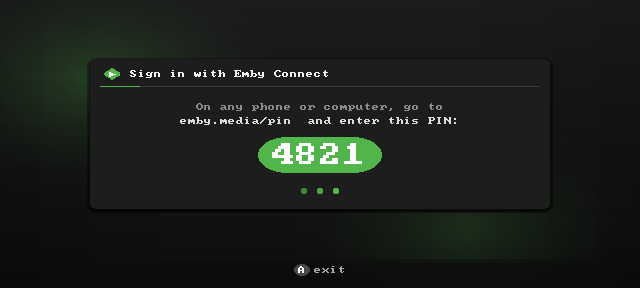
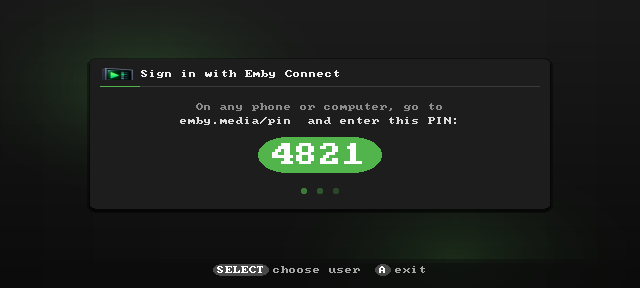
README for v1.1.0: features, controls, screenshots
The next-release section folds into the feature list, the home controls
describe the rows, the hardware-tested list covers what was confirmed on
the MiSTer today (and what wasn't), and the screenshots are retaken: home
rows, poster view, episode stills, the Live TV menu, channels with logos,
the info screen, PIN sign-in, the exit dialog and setup help.

Changed region(s): [[0.3125, 0.9062, 0.6562, 0.9688], [0.1562, 0.2188, 0.5312, 0.2812], [0.5, 0.6562, 0.5312, 0.6875]]

diff --git a/README.md b/README.md
@@ -32,36 +32,28 @@ Rendered with `tools/run-local.sh` against the bundled mock server (`tools/mock-
 
 | | | |
 |:---:|:---:|:---:|
-| <img src="docs/images/screenshots/home.png" width="260"><br>Home: library tiles | <img src="docs/images/screenshots/movies.png" width="260"><br>Library list, played badge | <img src="docs/images/screenshots/episodes.png" width="260"><br>Episodes |
-| <img src="docs/images/screenshots/movie-info.png" width="260"><br>Info, resume progress | <img src="docs/images/screenshots/connect-pin.png" width="260"><br>Emby Connect PIN sign-in | <img src="docs/images/screenshots/posters.png" width="260"><br>Poster view (next release) |
-| <img src="docs/images/screenshots/exit.png" width="260"><br>Exit dialog | <img src="docs/images/screenshots/sign-in-error.png" width="260"><br>Sign-in error | <img src="docs/images/screenshots/config-missing.png" width="260"><br>Setup help |
+| <img src="docs/images/screenshots/home.png" width="260"><br>Home: rows of artwork | <img src="docs/images/screenshots/posters.png" width="260"><br>Poster view | <img src="docs/images/screenshots/episodes.png" width="260"><br>Episodes as stills |
+| <img src="docs/images/screenshots/livetv.png" width="260"><br>Live TV: sources and categories | <img src="docs/images/screenshots/channels.png" width="260"><br>Channels with logos | <img src="docs/images/screenshots/movie-info.png" width="260"><br>Info screen |
+| <img src="docs/images/screenshots/connect-pin.png" width="260"><br>Emby Connect PIN sign-in | <img src="docs/images/screenshots/exit.png" width="260"><br>Exit dialog | <img src="docs/images/screenshots/config-missing.png" width="260"><br>Setup help |
 
 ## <a id="features"></a>Features
 
 - **Emby-style interface**: dark charcoal surfaces, Emby green for focus, progress and played state, rounded tiles and dialogs, button-chip hints along the bottom
 - **Sign in without typing on a gamepad**: an **Emby Connect PIN** (enter it at emby.media/pin from any phone or computer). A local username/password, an Emby Connect account or an API key in `emby.conf` also work. The sign-in is saved, and a revoked one is detected and requested again
-- **Continue Watching and Next Up** appear as the first home tiles when they have something in them
-- **Home screen**: a row of library tiles (name and item count) over a dimmed mosaic of that library's covers. LEFT/RIGHT slides between them; SELECT swaps to a plain list
-- **Browsing**: lists with cover art, played badges, resume progress bars, backdrop art behind the list, a live clock, and scrolling for long titles. Large libraries page in as you scroll
+- **Home screen like Emby's TV apps**: rows of artwork — My Media (your libraries, Live TV, Recordings, Collections), Continue Watching (with progress bars, and the channels you watched last) and Next Up — centred on screen, with the focused title's backdrop behind it. UP/DOWN moves between rows, LEFT/RIGHT along one; SELECT swaps to a plain list
+- **Poster view**: Movies, TV and Collections show as a wall of posters, and a season's episodes as a row of stills with the focused episode's synopsis, the way Emby's TV apps lay them out. SELECT swaps to the text list and back
+- **Live TV and Recordings**: with Live TV set up on the Emby server (an M3U playlist works), Live TV opens a menu of its TV sources and channel categories, each listing its channels with their logos; selecting one tunes straight in, and A cancels while it tunes. A channel whose own stream comes in a size the MiSTer can decode (up to 640x360) plays directly, with no work for the server; others are converted by Emby, at a lighter profile so a NAS keeps up (`LIVE_TRANSCODE` in `emby.conf` always converts). Recordings play like any other title. Live channels can be paused but not seeked
+- **Browsing**: lists with cover art, played badges, resume progress bars, backdrop art behind the list, a live clock, and scrolling for long titles. Large libraries page in as you scroll. Collections lists your Emby box sets even if the server shows no Collections library
 - **Info screen**: backdrop, logo, year, rating, overview, and Play/Resume buttons
-- **Video playback**: server-side transcode to a light MPEG-4 stream the MiSTer can decode in real time, letterboxed or pillarboxed for any source aspect. True interlaced 480i/576i output is supported through the standalone interlaced core (see the [display guide](docs/DISPLAY_COMPATIBILITY.md#interlaced-output))
+- **Video playback**: server-side transcode to a light MPEG-4 stream the MiSTer can decode in real time, letterboxed or pillarboxed for any source aspect. SD DivX/Xvid, MPEG-1 and progressive MPEG-2 files stream with their video untouched, so the server only repackages them (`TRANSCODE_ALWAYS` turns this off). True interlaced 480i/576i output is supported through the standalone interlaced core (see the [display guide](docs/DISPLAY_COMPATIBILITY.md#interlaced-output))
+- **Skip intro and credits**: when Emby has detected a title's intro or credits (Emby's intro detection), a "UP: Skip intro" / "UP: Skip credits" prompt appears at the right moment. Skipping the credits finishes the title and marks it played
+- **Cinema Mode** (opt-in, `CINEMA_MODE` in `emby.conf`): trailers chosen by your Emby server's Cinema Mode settings play before a film started from the beginning; UP skips one
 - **Track picker** (SELECT during playback): audio tracks, subtitles (text subtitles rendered client-side with live sync adjustment; image subtitles burned in by the server), and picture modes for wide titles (Original / Zoom 4:3 / Stretch)
 - **Music**: Artists → Albums → Tracks, direct-play audio, a now-playing screen with real VU meters and selectable backgrounds (starfield, rain, Nebula, Now Spinning, Tunnel), seek, previous/next, auto-advance, and library shuffle
 - **Sync with Emby**: resume positions and played state are read from and written back to Emby
 - **Emby dashboard integration**: the session shows up with transcoding info; remote pause/play/stop and admin messages work (messages show as a green banner)
-- **UI sounds**, a **SELECT+START screenshot** combo, an **opt-in debug log**, and an **in-app updater** from GitHub releases
-
-### Coming in the next release
-
-These are on the `main` branch but not in the v1.0.0 download yet, and haven't been tested on a MiSTer. They'll ship as v1.1.0 once they have been.
-
-- **Poster view**: Movies, TV and Collections show as a wall of posters, and a season's episodes as a row of stills with the focused episode's synopsis below, the way Emby's TV apps lay them out. Art comes from the SD card cache and is scaled once, so it stays light on the MiSTer. SELECT swaps to the text list and back
-- **Live TV and Recordings**: when the Emby server has Live TV set up (an M3U playlist works), a Live TV tile opens a menu of its TV sources and channel categories, each listing its channels with their logos; selecting one tunes straight in. A channel whose own stream comes in a size the MiSTer can decode (up to 640x360) plays directly, with no work for the server; others are converted by Emby (`LIVE_TRANSCODE` in `emby.conf` always converts). A Recordings tile lists finished recordings, which play like any other title. Live channels can be paused but not seeked
-- **Collections**: a home tile for your Emby box sets, even if the server shows no Collections library
-- **Skip intro and credits**: when Emby has detected a title's intro or credits, a "UP: Skip intro" / "UP: Skip credits" prompt appears at the right moment. Skipping the credits finishes the title and marks it played
-- **Direct streaming for SD files**: DivX/Xvid, MPEG-1 and progressive MPEG-2 files play with their video untouched, so the Emby server only repackages them (`TRANSCODE_ALWAYS` in `emby.conf` turns this off)
-- **Choose a user**: SELECT on the sign-in screen lists the server's users
-- **Cinema Mode** (opt-in, `CINEMA_MODE` in `emby.conf`): trailers chosen by your Emby server's Cinema Mode settings play before a film started from the beginning; UP skips one
+- **Its own look**: the MiSTerEmby logo and section titles, a rounded display font (Fredoka) for the big text, an Emby-green loading ring, and a green badge in the top bar when an update is out
+- **UI sounds**, a **SELECT+START screenshot** combo, an **opt-in debug log**, and an **in-app updater** from GitHub releases (START when the update badge shows)
 
 ## <a id="requirements"></a>Requirements
 
@@ -121,7 +113,7 @@ MiSTerEmby picks the first method your `emby.conf` allows:
 2. **Username and password**: `USERNAME=` and `PASSWORD=` lines, for a local Emby user.
 3. **Emby Connect account**: `CONNECT_USER=` and `CONNECT_PASSWORD=` lines.
 4. **API key**: `API_KEY=` and `USERNAME=` lines. The older three-line layout (server, key, username) also works.
-5. **Choose a user** (next release): on the PIN screen, SELECT lists the server's users. Picking one without a password signs straight in, which is handy for a shared household server.
+5. **Choose a user**: on the PIN screen, SELECT lists the server's users. Picking one without a password signs straight in, which is handy for a shared household server.
 6. **Emby Connect PIN** (the default with just `SERVER=`): a PIN appears on screen. Go to **emby.media/pin** on any device, sign in to Emby Connect, and enter it. Your Emby user must be linked to that Emby Connect account (Emby: Settings → Users → your user → Emby Connect).
 
 After the first sign-in works you can remove any password lines; the saved sign-in keeps working. `device.conf` holds a random id for this MiSTer. Don't copy it to a second MiSTer that signs in as the same user, or the two will keep signing each other out.
@@ -136,8 +128,9 @@ Button names follow Xbox-style labels (bottom face button = A, right = B). On Ni
 
 | Where | Button | Keyboard | Action |
 |---|---|---|---|
-| Home | Left / Right | Left / Right | Move between library tiles |
-| Home | SELECT | Tab | Switch between tiles and list |
+| Home | Up / Down | Up / Down | Move between rows |
+| Home | Left / Right | Left / Right | Move along a row |
+| Home | SELECT | Tab | Switch between rows and a plain list |
 | Browse | Up / Down | Up / Down | Move |
 | Browse | B | B / Enter / X | Open |
 | Browse | A | A / Esc / Backspace / Z | Back (exit dialog at the top level) |
@@ -146,7 +139,7 @@ Button names follow Xbox-style labels (bottom face button = A, right = B). On Ni
 | Info | SELECT | Tab | Play from the start (when there's a resume point) |
 | Video | B | B / Enter / X | Pause / resume |
 | Video | Left / Right | Left / Right | Seek 30s |
-| Video | Up | Up | Skip intro / credits (while the prompt shows; next release) |
+| Video | Up | Up | Skip intro / credits / a Cinema Mode trailer (while the prompt shows) |
 | Video | SELECT | Tab | Track picker |
 | Video | L / R | PageUp / PageDown | VSync on / off |
 | Video | A | Esc | Stop |
@@ -193,7 +186,7 @@ To try the PIN flow against the mock, start the client with `MISTEREMBY_CONNECT_
 
 ## <a id="status"></a>Status and known limitations
 
-- **Tested on hardware** against Emby Server 4.10.1 on a Synology NAS (no hardware transcoding), with an HDMI-to-VGA adapter into a 31kHz CRT monitor at 640x480. Confirmed: Emby Connect PIN sign-in, the saved sign-in, browsing, Continue Watching and Next Up, full-screen playback, seek and pause, and resume positions syncing with Emby. Not yet tested: subtitles, switching audio tracks, music, and dashboard messages.
+- **Tested on hardware** against Emby Server 4.10.1 on a Synology NAS (no hardware transcoding), with an HDMI-to-VGA adapter into a 31kHz CRT monitor at 640x480. Confirmed: Emby Connect PIN sign-in, the saved sign-in, the home rows, poster view and browsing, full-screen playback, seek and pause, resume positions syncing with Emby, and Live TV from IPTV (M3U) playlists — both played directly on the MiSTer and converted by the server. Not yet tested on hardware: subtitles, switching audio tracks, music, dashboard messages, skip intro (needs Emby's intro detection), Cinema Mode, choosing a user, and direct streaming of SD files.
 - **Emby has no MPEG-2 encoder**, so video is transcoded to MPEG-4 Part 2, the lightest codec Emby offers. A NAS without hardware transcoding manages about 1.2–1.9x real time from a 1080p H.264 source. That's enough for one stream; heavy load on the server can still stall playback.
 - **Smooth motion depends on the refresh rate.** 25fps video on a 60Hz screen judders slightly. On a PC CRT, a 75Hz `[Menu]` mode in `MiSTer.ini` (`video_mode=640,16,64,120,480,1,3,16,31500`) shows every 25fps frame for exactly 3 refreshes.
 - Burning in image-based subtitles (PGS/VobSub) needs the server to re-encode with the subtitle drawn in. Some Emby setups are known to fail burn-in transcodes. If a title with an image subtitle won't play, turn the subtitle off.
@@ -201,7 +194,7 @@ To try the PIN flow against the mock, start the client with `MISTEREMBY_CONNECT_
 - The command socket (remote control, admin messages) only works with `http://` servers. Everything else works over `https://`.
 - The bitmap font covers Latin-1, so other scripts are transliterated or shown as `?`.
 - If mplayer can't open a stream, you're returned to the browser without an error message.
-- Live TV is transcoded like everything else, so a broadcast HD channel needs a server that can transcode it in real time. A NAS without hardware transcoding may not keep up.
+- Live TV channels that only offer HD streams (or refuse direct access) are converted by the server in real time; a NAS without hardware transcoding manages about 1.2x real time on a 720p channel, which is enough but can jitter under load. Channel lists have no programme names unless Emby has guide data (XMLTV) for them.
 
 ## <a id="credits"></a>Credits
 
